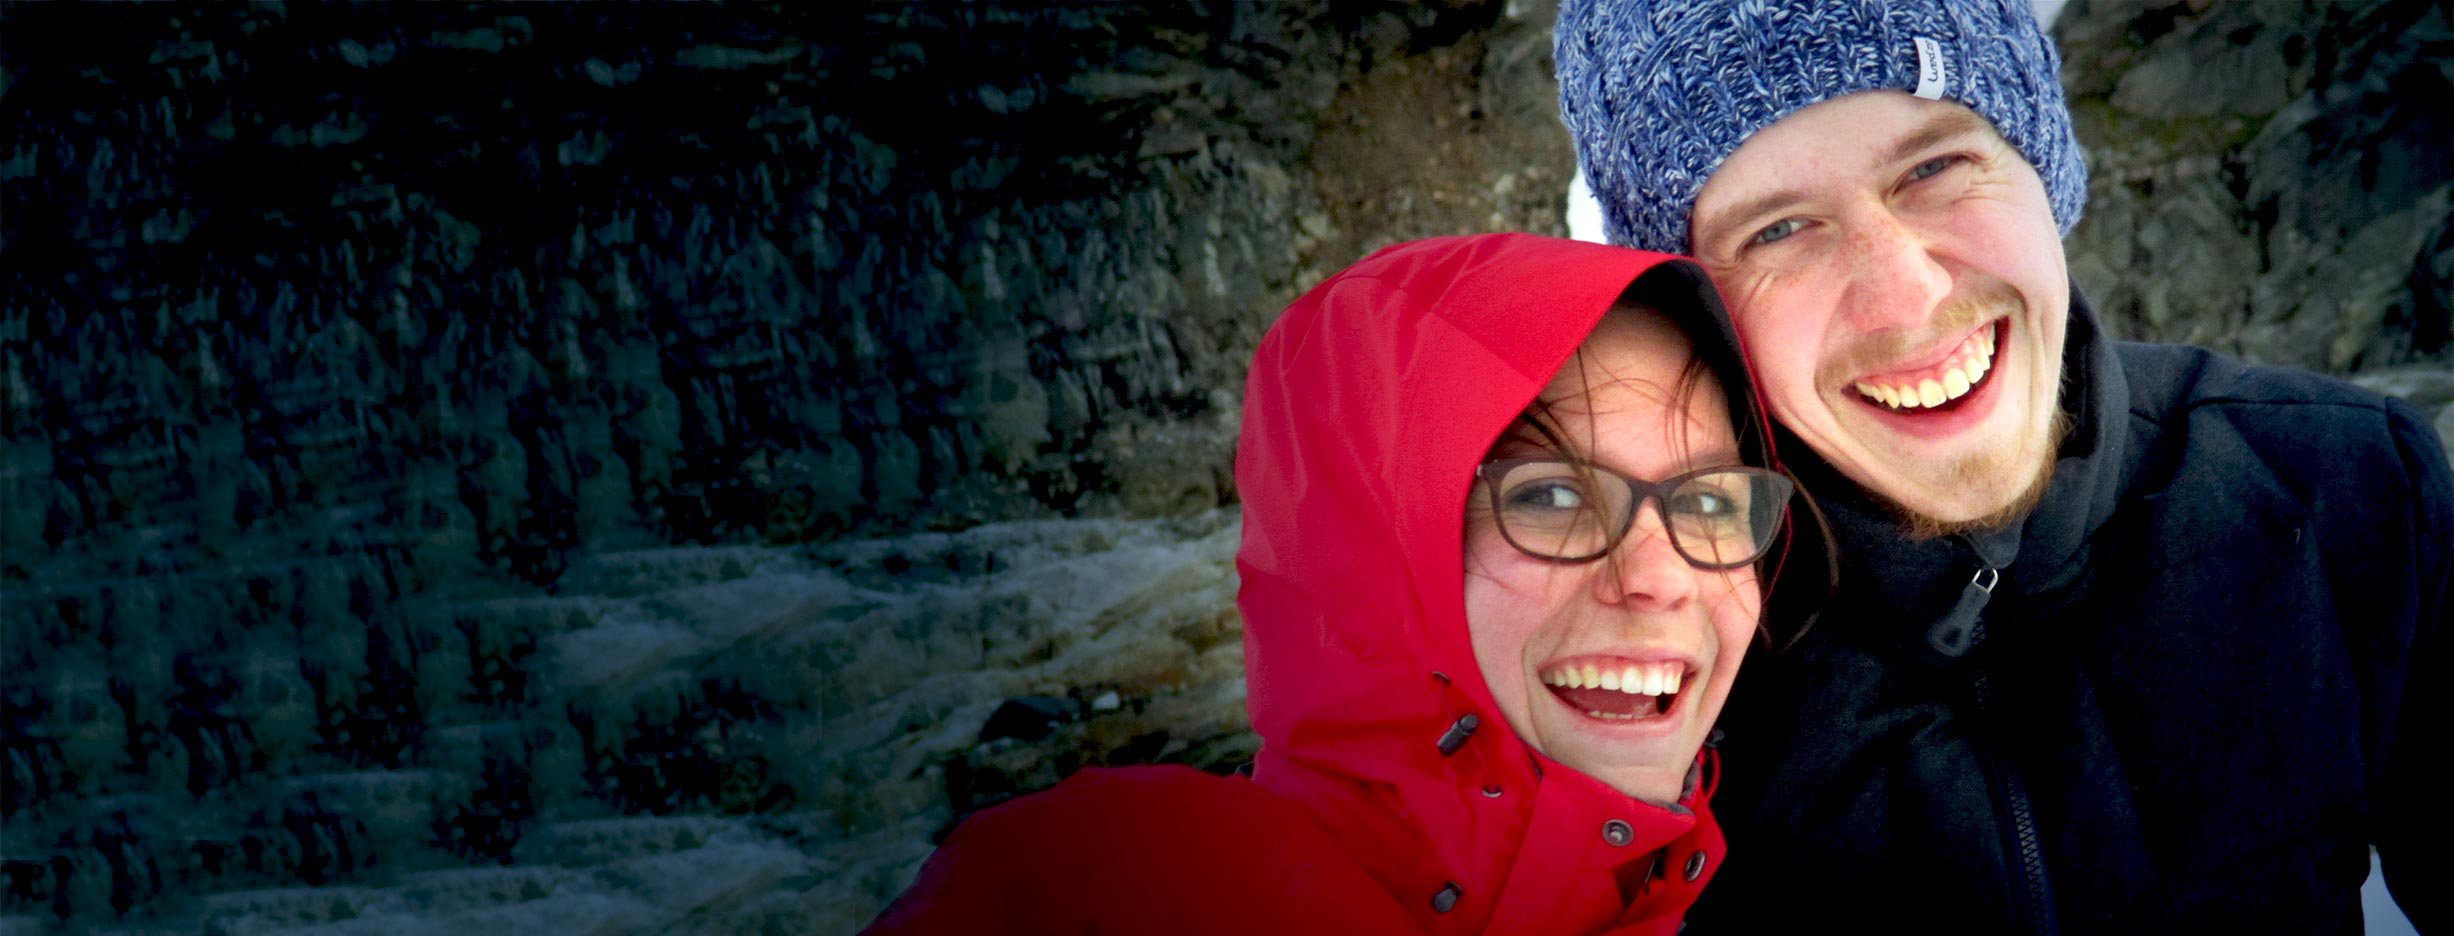
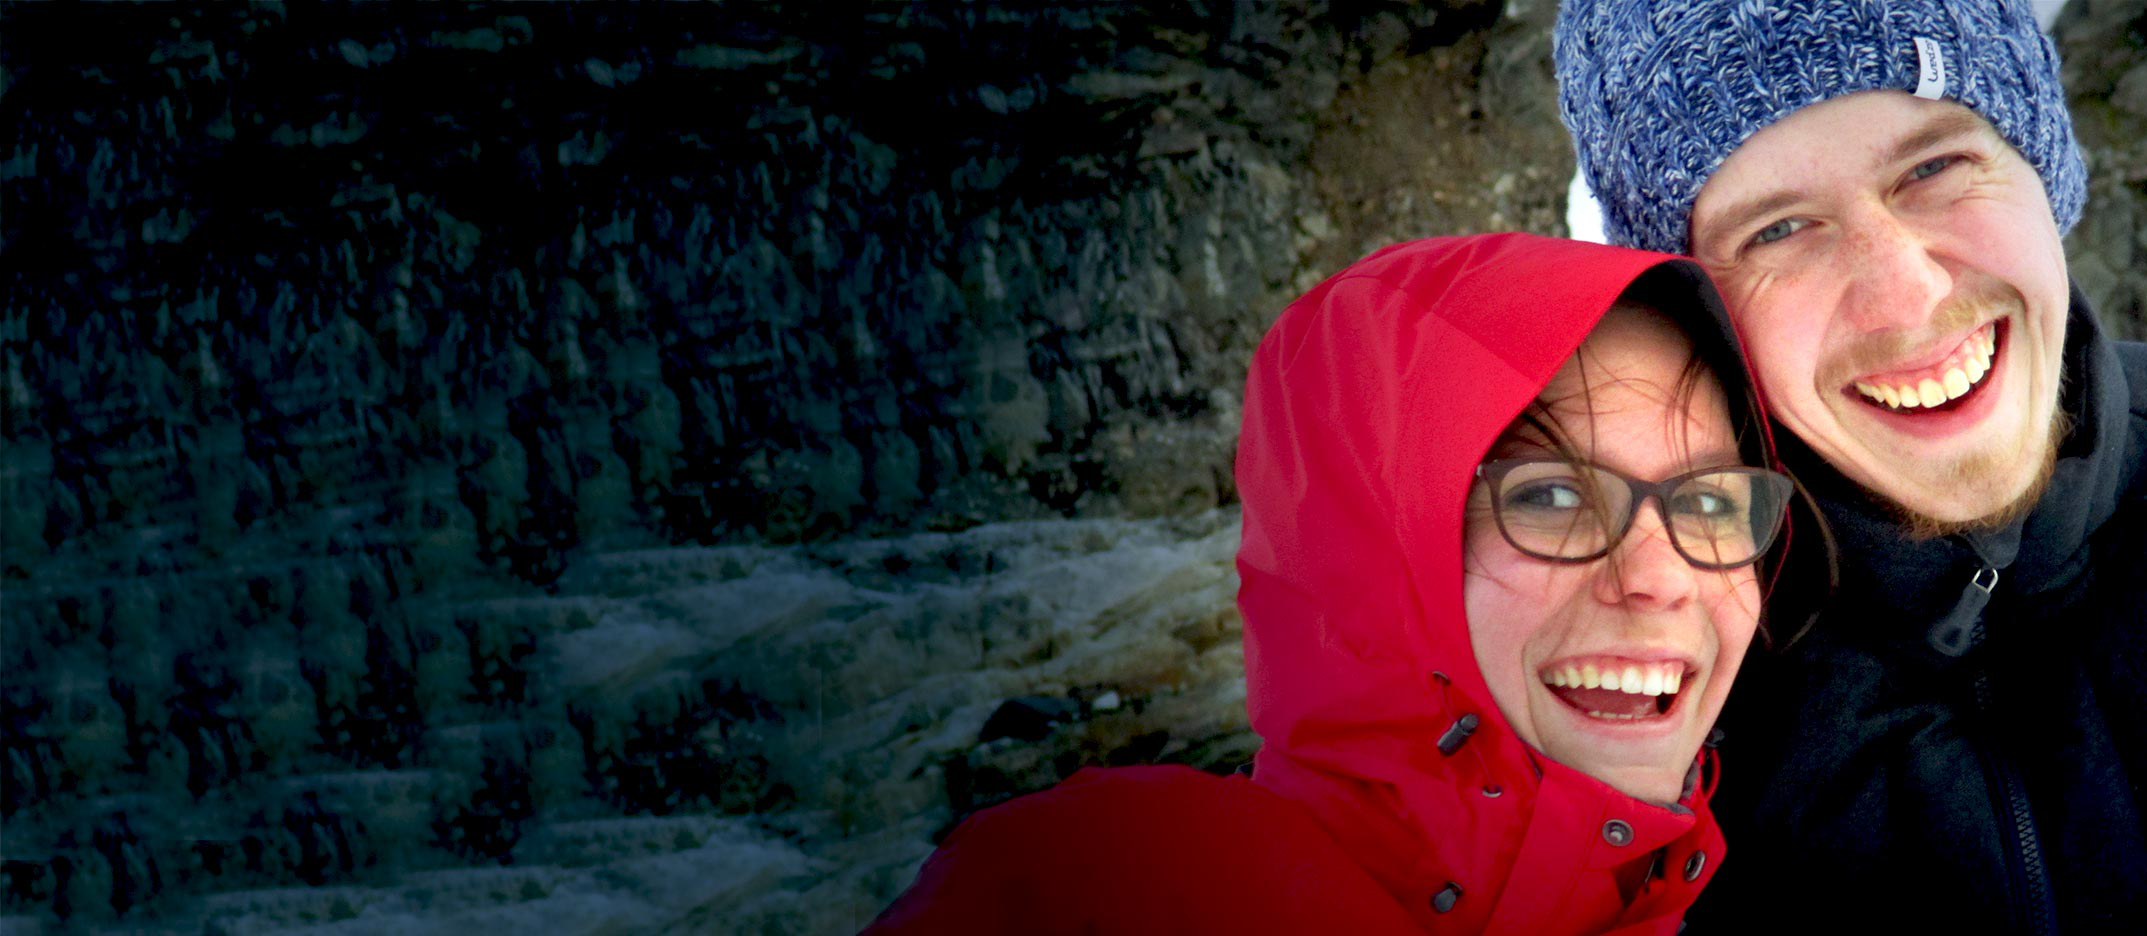
style

diff --git a/css/main.css b/css/main.css
@@ -5,12 +5,11 @@
    ========================================================================== */
    .jumbotron {
       padding-bottom: 100px;
-      /*padding-right: 40%; */
-       position: relative;
-       background: #EEE url("../img/background_small.png") center;
+      /*padding-right: 40%;*/
+       /*position: relative;*/
+       background: #EEE url("../img/background_small.png") center right;
        width: 100%;
        height: 100%;
-       /*max-height: 400px;*/
        background-size: cover;
        overflow: hidden;
    }
@@ -18,4 +17,6 @@
 .jumbotron,h1{
   color: #EEE;
   text-shadow: 2px 2px #222;
+  filter: drop-shadow(<length>{2,3} <color>?);
+
 }
